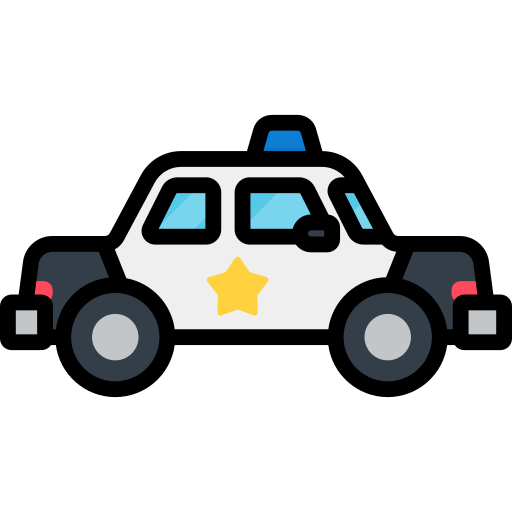
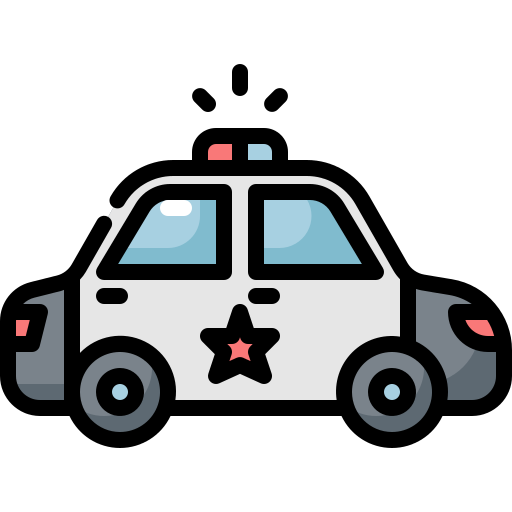
hardcoded test routes

diff --git a/src/components/map/display_emergency_services_locations/EmergencyServiceRoutes.js b/src/components/map/display_emergency_services_locations/EmergencyServiceRoutes.js
@@ -8,28 +8,53 @@ import {LeafletTrackingMarker} from 'react-leaflet-tracking-marker'
 const FireTruckIcon = L.icon({
     iconUrl: require("./images/fireTruckIcon.png"),
     iconSize: [45, 45],
-    
   });
-
+  const FireTruckIconFlipped = L.icon({
+    iconUrl: require("./images/fireTruckIconFlipped.png"),
+    iconSize: [45, 45],
+  });
 
   const PoliceCarIcon = L.icon({
     iconUrl: require("./images/policeCarIcon.png"),
-    iconSize: [60, 60],
-
+    iconSize: [50, 50],
+  });
+  const PoliceCarIconFlipped = L.icon({
+    iconUrl: require("./images/policeCarIconFlipped.png"),
+    iconSize: [50, 50],
+  });
+  const AmbulanceIcon = L.icon({
+    iconUrl: require("./images/abulanceIcon.png"),
+    iconSize: [50, 50],
+  });
+  const AmbulanceIconFlipped = L.icon({
+    iconUrl: require("./images/ambulanceIconFlipped.png"),
+    iconSize: [50, 50],
+  });
+  const ArmyTankIcon = L.icon({
+    iconUrl: require("./images/armyTankIcon.png"),
+    iconSize: [50, 50],
+  });
+  const ArmyTankIconFlipped = L.icon({
+    iconUrl: require("./images/armyTankIconFlipped.png"),
+    iconSize: [50, 50],
   });
 
 export default class EmergencyServiceRoutes extends Component {
-    vehicleSpeed = 1000
+
+    vehicleSpeed = 400
+
     constructor(props) {
         super(props);
         this.state = {
             emergency_services: [],
             fireTruckRouteCoords: [],
-            fireTruckRouteCoordsIndex:0,
+            fireTruckRouteCoordsIndex:1,
             policeCarRouteCoords: [],
-            policeCarRouteCoordsIndex:0,
+            policeCarRouteCoordsIndex:1,
             ambulanceRouteCoords: [],
-            ambulanceRouteCoordsIndex:0
+            ambulanceRouteCoordsIndex:1,
+            armyRouteCoords: [],
+            armyRouteCoordsIndex:1,
         }
     }
    
@@ -48,17 +73,20 @@ export default class EmergencyServiceRoutes extends Component {
         console.log("Received time")
     }
     handleAnimation = (coords, emergencyServiceType) => {
+        
+        coords.reverse()
         var emergencyServiceTypeIndex = emergencyServiceType + "Index"
         this.setState(
             {
              [emergencyServiceType]:coords,
             })
+        console.log("Animating: "+emergencyServiceType)
         console.log("Received Route Coords: "+this.state[emergencyServiceType])
         for (let index = 0; index < this.state[emergencyServiceType].length; index++) {
             setTimeout(() => {
             if(this.state[emergencyServiceTypeIndex]===this.state[emergencyServiceType].length-1){
                 this.setState({[emergencyServiceType]:[]})
-                this.setState({[emergencyServiceTypeIndex]:0})
+                this.setState({[emergencyServiceTypeIndex]:1})
             }else{
                 this.setState(prevState=>{
                     return{
@@ -71,51 +99,73 @@ export default class EmergencyServiceRoutes extends Component {
     }
 
     render() {
-        
+        return<>{this.testRoute("#ff5900","fireTruckRouteCoords",L.latLng(53.358,-6.2782))}
+                {this.animateIcon(FireTruckIcon,FireTruckIconFlipped,this.state.fireTruckRouteCoords,this.state.fireTruckRouteCoordsIndex,this.vehicleSpeed)}
+                {this.testRoute("#f54242","ambulanceRouteCoords",L.latLng(53.348,-6.2702))}
+                {this.animateIcon(AmbulanceIcon,AmbulanceIconFlipped,this.state.ambulanceRouteCoords,this.state.ambulanceRouteCoordsIndex,this.vehicleSpeed)}
+                {this.testRoute("#2509b3","policeCarRouteCoords",L.latLng(53.339,-6.2702))}
+                {this.animateIcon(PoliceCarIcon,PoliceCarIconFlipped,this.state.policeCarRouteCoords,this.state.policeCarRouteCoordsIndex,this.vehicleSpeed)}
+                {this.testRoute("#1b6932","armyRouteCoords",L.latLng(53.359,-6.292))}
+                {this.animateIcon(ArmyTankIcon,ArmyTankIconFlipped,this.state.armyRouteCoords,this.state.armyRouteCoordsIndex,this.vehicleSpeed)}
+
+                </>
         if (this.state.emergency_services[this.props.disaster.id]) {
             return (
                 <>
                     {this.routeFireBrigades()}
-                    {this.animateFireTruck()}
                     {this.routePolice()}
-                    {this.animatePoliceCar()}
+                    
                     {this.routeAmbulances()}
+
+                    {this.animateIcon(FireTruckIcon,FireTruckIconFlipped,this.state.fireTruckRouteCoords,this.state.fireTruckRouteCoordsIndex,this.vehicleSpeed)}
+                    {this.animateIcon(PoliceCarIcon,PoliceCarIconFlipped,this.state.policeCarRouteCoords,this.state.policeCarRouteCoordsIndex,this.vehicleSpeed)}
+                    {this.animateIcon(AmbulanceIcon,AmbulanceIconFlipped,this.state.ambulanceRouteCoords,this.state.ambulanceRouteCoordsIndex,this.vehicleSpeed)}
+
+
+
+                    
                 </>
             )
         } else {
             return null;
         }
+    }
 
-    }
-    animateFireTruck(){
-        if(this.state.fireTruckRouteCoords.length>0){
+    animateIcon(icon,flippedIcon, polyline, index, speed){
+        if(polyline.length>0){
+            var animateIcon = icon
+            if(polyline[index-1].lng >polyline[index].lng){
+                animateIcon = flippedIcon
+            }
             return <LeafletTrackingMarker 
-            icon={FireTruckIcon} 
-            position={this.state.fireTruckRouteCoords[this.state.fireTruckRouteCoordsIndex]} 
-            previousPosition={this.state.fireTruckRouteCoords[this.state.fireTruckRouteCoordsIndex-1]} 
-            duration={this.vehicleSpeed} />
+            icon={animateIcon} 
+            position={[polyline[index].lat ,polyline[index].lng]} 
+            previousPosition={[polyline[index-1].lat ,polyline[index-1].lng]}
+            duration={speed} />
+            
         }
     }
-    animatePoliceCar(){
-        if(this.state.policeCarRouteCoords.length>0){
-            return <LeafletTrackingMarker 
-            icon={PoliceCarIcon} 
-            position={this.state.policeCarRouteCoords[this.state.policeCarRouteCoordsIndex]} 
-            previousPosition={this.state.policeCarRouteCoords[this.state.policeCarRouteCoordsIndex-1]} 
-            duration={this.vehicleSpeed} />
-        }
+    
+    testRoute(lineColor, esTypeCoords,location){
+        return <RoutingMachine 
+        lineColor={lineColor}
+        routeTravelMode={"walking"} 
+        animationClassName='evac-route-line'
+        getTime={true}
+        handleTime={this.handleTime}
+        getRouteCoords={esTypeCoords}
+        handleCoords={this.handleAnimation}
+        waypoints={[
+        L.latLng(53.34943976641769,-6.285295486450195),
+        location,
+        
+    ]} />
     }
-    animateAmbulance(){
-        if(this.state.ambulanceRouteCoords.length>0){
-            return <LeafletTrackingMarker 
-            icon={PoliceCarIcon} 
-            position={this.state.ambulanceRouteCoords[this.state.ambulanceRouteCoordsIndex]} 
-            previousPosition={this.state.ambulanceRouteCoords[this.state.ambulanceRouteCoordsIndex-1]} 
-            duration={this.vehicleSpeed} />
-        }
-    }
+
     routeFireBrigades() {
+        
         if (this.state.emergency_services[this.props.disaster.id]["fire_brigade"]) {
+            console.log("Routing fire")
             return (<>
                 {this.state.emergency_services[this.props.disaster.id]["fire_brigade"].map((fire_station_loc, idx) => <>
                     <RoutingMachine key={`route-${idx}`}
@@ -140,13 +190,16 @@ export default class EmergencyServiceRoutes extends Component {
     }
 
     routeAmbulances() {
+        
         if (this.state.emergency_services[this.props.disaster.id]["ambulance"]) {
             return (<>
                 {this.state.emergency_services[this.props.disaster.id]["ambulance"].map((hospital_loc, idx) => <>
                     <RoutingMachine key={`route-${idx}`}
                         lineColor="#f54242"
                         routeTravelMode={"walking"} 
-                        animationClassName='animate'
+                        animationClassName='evac-route-line'
+                        getRouteCoords={"ambulanceRouteCoords"}
+            handleCoords={this.handleAnimation}
                         waypoints={[
                             L.latLng(hospital_loc.lat, hospital_loc.long),
                             L.latLng(this.props.disaster.lat, this.props.disaster.long),

diff --git a/src/components/map/MapTraffic.js b/src/components/map/MapTraffic.js
@@ -6,6 +6,13 @@ import 'leaflet/dist/leaflet.css';
 import EmergencyServiceLocations from './display_emergency_services_locations/EmergencyServiceLocations';
 import DisasterLocations from './display_emergency_services_locations/DisasterLocations';
 
+const LocationIcon = L.icon({
+  iconUrl: require("./location.png"),
+  iconSize: [50, 50],
+  
+  popupAnchor: [2, -40],
+});
+
 const center = {
     lat: 53.348,
     lng: -6.2603,
@@ -39,6 +46,7 @@ function DraggableMarker() {
     return (
         <>
         <Marker
+        icon={LocationIcon}
         draggable={draggable}
         eventHandlers={eventHandlers}
         position={position}
@@ -46,8 +54,8 @@ function DraggableMarker() {
         <Popup minWidth={90}>
           <span onClick={toggleDraggable}>
             {draggable
-              ? 'Marker is now draggable'
-              : 'User Location. Click here to make marker draggable'}
+              ? 'Location is now draggable'
+              : 'User Location. Click here to make location draggable'}
           </span>
         </Popup>
       </Marker>

diff --git a/src/components/map/display_emergency_services_locations/DisasterLocations.js b/src/components/map/display_emergency_services_locations/DisasterLocations.js
@@ -11,6 +11,7 @@ import EmergencyServiceRoutes from './EmergencyServiceRoutes';
 import { getDistance, isPointWithinRadius, getRhumbLineBearing, computeDestinationPoint } from 'geolib';
 
 
+
 const FloodIcon = L.icon({
     iconUrl: require("./images/flood.png"),
     iconSize: [60, 60],
@@ -59,6 +60,7 @@ const AlertIcon = L.icon({
     iconAnchor: [30, 30],
     popupAnchor: [2, -40],
 });
+
 const DisturbanceIcon = L.icon({
     iconUrl: require("./images/disturbance.png"),
     iconSize: [50, 50],
@@ -252,7 +254,7 @@ export default class DisasterLocations extends Component {
         }else{
             return <>
                 <RoutingMachine 
-                    
+                    lineColor="#0095ff"
                     waypoints = {[
                         L.latLng(this.state.evacPoints[this.state.minDistanceIndex].latitude, this.state.evacPoints[this.state.minDistanceIndex].longitude),
                         L.latLng(this.props.userLocation[0], this.props.userLocation[1]),

diff --git a/src/components/map/display_emergency_services_locations/EmergencyServiceLocations.js b/src/components/map/display_emergency_services_locations/EmergencyServiceLocations.js
@@ -11,20 +11,20 @@ import L from "leaflet";
 const HospitalIcon = L.icon({
   iconUrl: require("./images/hospital.png"),
   iconSize: [50, 50],
-  iconAnchor: [10, 41],
+  
   popupAnchor: [2, -40],
 });
 
 const PoliceIcon = L.icon({
   iconUrl: require("./images/policeIcon.png"),
-  iconSize: [40, 40],
-  iconAnchor: [10, 41],
+  iconSize: [50, 50],
+  
   popupAnchor: [2, -40],
 });
 
 const FirestationIcon = L.icon({
   iconUrl: require("./images/firestation.png"),
-  iconSize: [40, 40],
+  iconSize: [50, 50],
   
   popupAnchor: [2, -40],
 });

diff --git a/src/components/map/RoutingMachine.js b/src/components/map/RoutingMachine.js
@@ -30,7 +30,7 @@ const createRoutingMachineLayer = (props) => {
             addWaypoints: false,
             routeWhileDragging: true,
             draggableWaypoints: false,
-            fitSelectedRoutes: true,
+            fitSelectedRoutes: false,
             showAlternatives: false
         });
     
